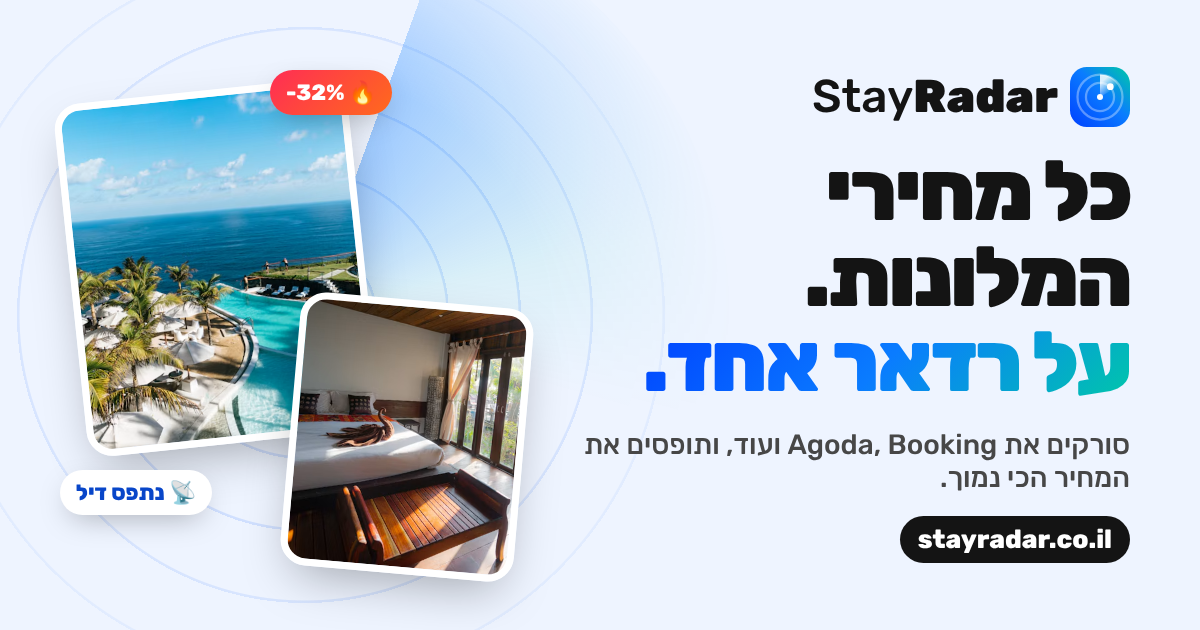
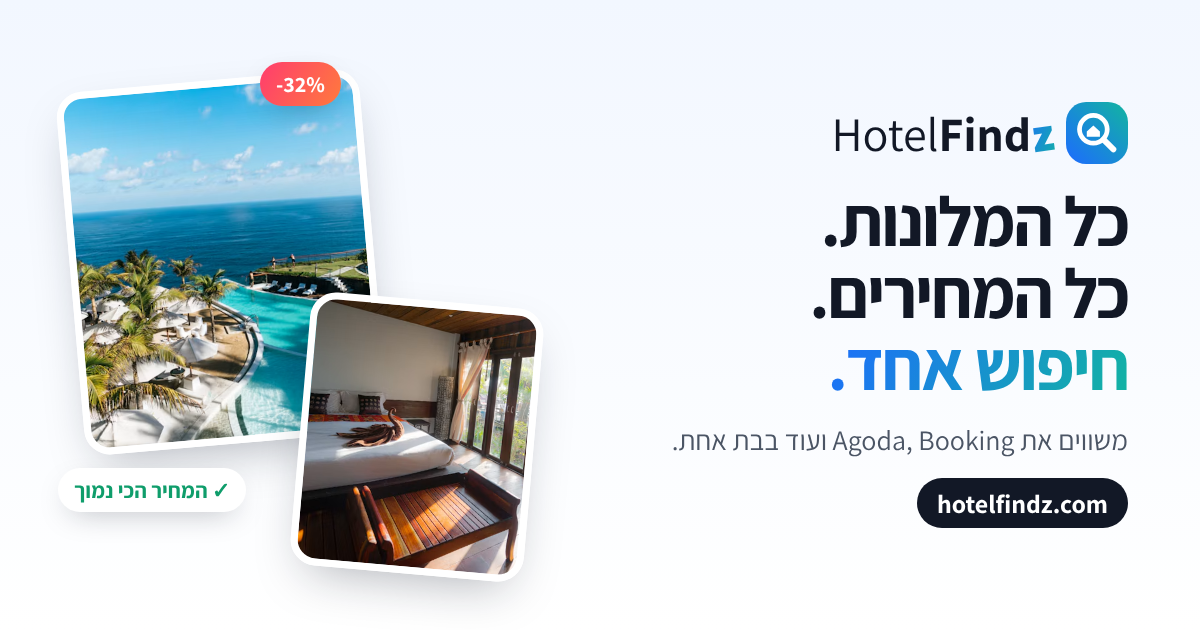
Rebrand to HotelFindz
- Name and domain: HotelFindz, hotelfindz.com
  ("כל המלונות. כל המחירים. חיפוש אחד.")
- New logo: magnifier with a hotel in the lens and a highlighted Z;
  the magnifier wiggles on hover. New favicon and share image
- Copy no longer refers to a radar; affiliate labels are hotelfindz-*
- README lists the domains to register, including hotelfinds.co.il
  for people who type an S

Claude-Session: https://claude.ai/code/session_018pgqGq6Ag1Bhao5nxEtkpy

diff --git a/src/data/site.ts b/src/data/site.ts
@@ -1,9 +1,9 @@
 export const site = {
-  name: 'StayRadar',
-  nameHe: 'סטיי ראדאר',
-  domain: 'stayradar.co.il',
-  slogan: 'תופסים את המחיר הכי נמוך.',
+  name: 'HotelFindz',
+  nameHe: 'הוטל פיינדז',
+  domain: 'hotelfindz.com',
+  slogan: 'כל המלונות. כל המחירים. חיפוש אחד.',
   description:
-    'StayRadar סורק ומשווה מחירי מלונות בזמן אמת בין Agoda, Booking, Expedia, Hotels.com ו-Trip.com. מלונות באילת, ים המלח, תל אביב, יוון, דובאי ואירופה, במחיר הכי נמוך ובלי עמלות.',
-  email: 'hello@stayradar.co.il',
+    'HotelFindz סורק ומשווה מחירי מלונות בזמן אמת בין Agoda, Booking, Expedia, Hotels.com ו-Trip.com. מלונות באילת, ים המלח, תל אביב, יוון, דובאי ואירופה, במחיר הכי נמוך ובלי עמלות.',
+  email: 'hello@hotelfindz.com',
 };

diff --git a/src/data/destinations.ts b/src/data/destinations.ts
@@ -524,7 +524,7 @@ export function faqFor(d: Destination) {
   return [
     {
       q: `איך מוצאים את המלון הזול ביותר ב${d.he}?`,
-      a: `מזינים תאריכים בחיפוש של StayRadar, ואנחנו פותחים עבורכם את אותו חיפוש ב-Booking, Agoda, Expedia, Hotels.com ו-Trip.com. כך תראו במהירות איפה אותו מלון ב${d.he} מוצע במחיר הנמוך ביותר, ותזמינו ישירות אצל האתר המשתלם.`,
+      a: `מזינים תאריכים בחיפוש של HotelFindz, ואנחנו פותחים עבורכם את אותו חיפוש ב-Booking, Agoda, Expedia, Hotels.com ו-Trip.com. כך תראו במהירות איפה אותו מלון ב${d.he} מוצע במחיר הנמוך ביותר, ותזמינו ישירות אצל האתר המשתלם.`,
     },
     {
       q: 'האם המחיר אצלכם יקר יותר מבאתר עצמו?',

diff --git a/src/lib/partners.ts b/src/lib/partners.ts
@@ -1,5 +1,5 @@
 // Partner deep links. Every link carries our affiliate ID (when configured)
-// so a booking made after the click is attributed to StayRadar.
+// so a booking made after the click is attributed to HotelFindz.
 // Used both at build time (destination pages) and in the browser (/search).
 
 export interface SearchQuery {
@@ -68,7 +68,7 @@ export const partners: Partner[] = [
         lang: 'he',
         selected_currency: 'ILS',
         aid: AFF.booking,
-        label: `stayradar-${s.source || 'web'}`,
+        label: `hotelfindz-${s.source || 'web'}`,
       }),
   },
   {
@@ -87,7 +87,7 @@ export const partners: Partner[] = [
         rooms: s.rooms,
         currency: 'ILS',
         cid: AFF.agoda,
-        tag: `stayradar-${s.source || 'web'}`,
+        tag: `hotelfindz-${s.source || 'web'}`,
       }),
   },
   {

diff --git a/README.md b/README.md
@@ -1,6 +1,6 @@
-# StayRadar · סטיי ראדאר
+# HotelFindz · הוטל פיינדז
 
-**כל מחירי המלונות. על רדאר אחד.** · `stayradar.co.il`
+**כל המלונות. כל המחירים. חיפוש אחד.** · `hotelfindz.com`
 
 A Hebrew (RTL) hotel price-comparison site for Israeli travellers. It doesn't sell rooms. It shows **live
 hotel prices from Agoda** for the traveller's dates, and opens the same search on **Booking.com, Expedia,
@@ -58,13 +58,13 @@ npm run build
 ```
 
 **Deploy:** import the GitHub repo in Vercel (framework: Astro, no config needed), add the environment variables,
-and point `stayradar.co.il` (and `getstayradar.com`) at it. CI (`.github/workflows/ci.yml`) builds every pull request.
+and point `hotelfindz.com` (plus `hotelfindz.co.il` and `hotelfinds.co.il`) at it. CI (`.github/workflows/ci.yml`) builds every pull request.
 
 ## Brand
 
-- **Name:** StayRadar: the radar that scans every booking site and catches the lowest price. "Stay" covers hotels, apartments and resorts.
-- **Domains:** on 2026-10-25 `stayradar.co.il`, `getstayradar.com` and `gostayradar.com` showed no registration. `stayradar.com` is registered by someone else (since 2025-04, no site on it), so it could only be bought from them. Register the free ones before anything else.
-- **Look:** clean white product UI, Rubik type, a blue-to-teal radar gradient (`--fire-grad` in `src/styles/global.css`), a warm accent only for hot deals (`--hot-grad`). The logo's sweep rotates, and searches show a "scanning the booking sites…" radar.
+- **Name:** HotelFindz: says exactly what it does (finds hotels), with a playful Z that the logo highlights.
+- **Domains:** on 2026-10-25 `hotelfindz.com`, `hotelfindz.co.il` and `hotelfinds.co.il` showed no registration. Register all three; `hotelfinds.co.il` catches people who type an S. (`hotelfinds.com` is taken.)
+- **Look:** clean white product UI, Assistant type, a blue-to-teal gradient (`--fire-grad` in `src/styles/global.css`), a warm accent only for hot deals (`--hot-grad`). The logo's magnifier wiggles on hover, and searches show a "scanning the booking sites…" animation.
 - **Photos:** Unsplash / Pexels CDNs (free commercial use), credited on `/credits/`; edit `src/data/photos.ts`.
 
 ## SEO
@@ -79,6 +79,6 @@ Rankings still take months: submit the sitemap in Google Search Console, keep ad
 
 ## Legal
 
-The site says clearly that StayRadar is a comparison site, not a travel agency, that prices come from partners
+The site says clearly that HotelFindz is a comparison site, not a travel agency, that prices come from partners
 and aren't guaranteed, and that it may earn commission. The affiliate programs and Israeli consumer law require it.
 Don't use partner logos without permission.
